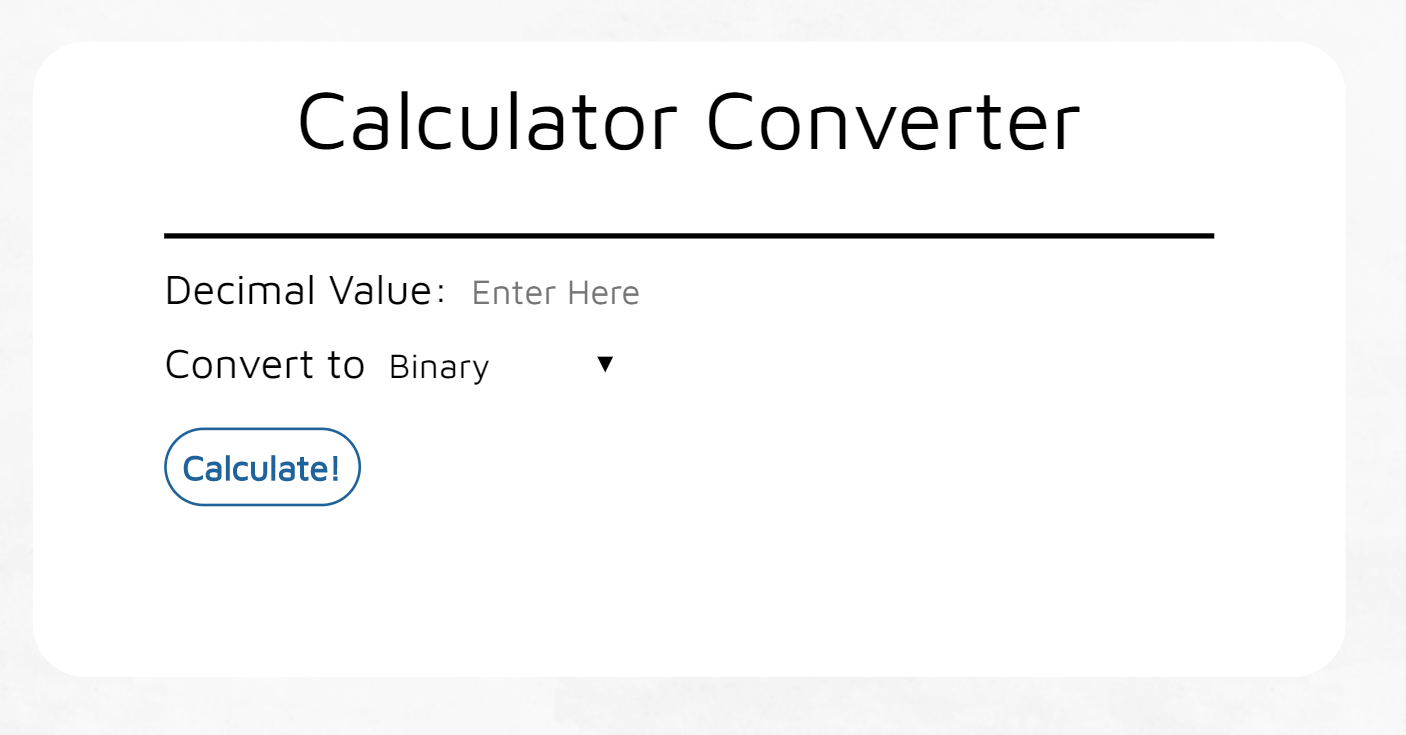
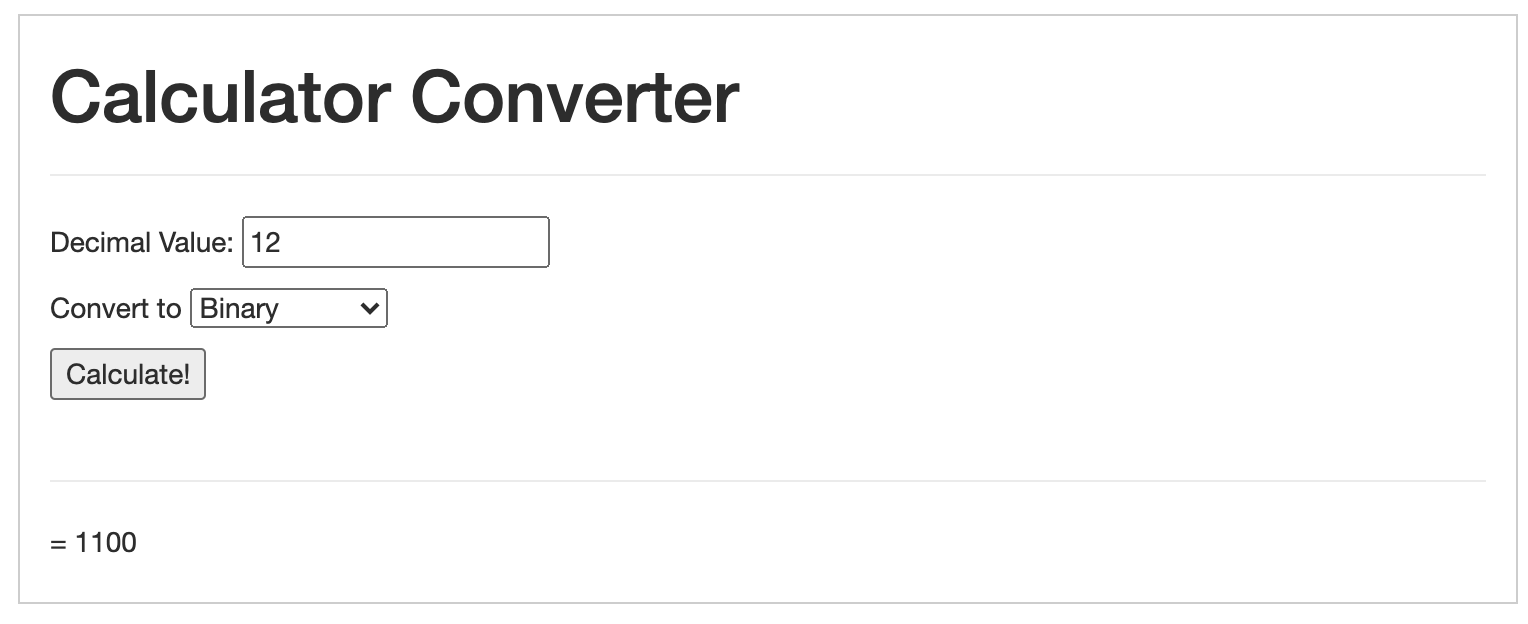
added projects

diff --git a/tip.html b/tip.html
@@ -1,84 +1,99 @@
+
+
 <!DOCTYPE html>
-<html lang="en" dir="ltr">
-
+<html lang="en">
 <head>
-    <meta charset="utf-8">
-    <meta name="viewport" content="width=device-width, initial-scale=1">
-
-    <title> Thuy-Vy Nguyen</title>
-    <link rel="stylesheet" href="style.css">
+  <title> Thuy-Vy Nguyen</title>
+  <meta charset="utf-8">
+  <meta name="viewport" content="width=device-width, initial-scale=1">
+  <link rel="stylesheet" href="https://maxcdn.bootstrapcdn.com/bootstrap/3.4.1/css/bootstrap.min.css">
+  <script src="https://ajax.googleapis.com/ajax/libs/jquery/3.5.1/jquery.min.js"></script>
+  <script src="https://maxcdn.bootstrapcdn.com/bootstrap/3.4.1/js/bootstrap.min.js"></script>
+  <link rel="stylesheet" href="style.css">
 </head>
-
 <body>
 
-    <div class="navbar">
-        <a href="index.html"> &nbsp; &nbsp;T H U Y - V Y &nbsp; &nbsp; N G U Y E N</a>
+ <!-- NAVIGATION BAR -->
+  <nav id="transparent" class="navbar navbar-default navbar-fixed-top">
+    <div class="container">
+    <div class="container-fluid">
+      <div class="navbar-header">
+        <button type="button" class="navbar-toggle" data-toggle="collapse" data-target="#myNavbar">
+          <span class="icon-bar"></span>
+          <span class="icon-bar"></span>
+          <span class="icon-bar"></span>                        
+        </button>
+        <a class="navbar-brand" href="index.html"> THUY-VY</a>
+      </div>
+      <div class="collapse navbar-collapse" id="myNavbar">
+        <ul class="nav navbar-nav navbar-right">
+          <li><a href="index.html">Home</a></li>
+          <li><a href="index.html#profile">Profile</a></li>
+          <li><a href="index.html#resume">Resume</a></li>
+          <li><a href="index.html#projects">Projects</a></li>
+          <li><a href="index.html#connect">Connect</a></li>
 
-        <div class="nav_links">
-            <a href="index.html"> home</a>
-            <a href="resume_thuyvynguyen.pdf"> experience</a>
-            <a href="projects.html"> projects </a>
-        </div>
+        </ul>
+      </div>
     </div>
+    </div>
+  </nav>
 
+  <br> <br><br>
+   <!-- HERE IS WHERE THE TIP STUFF STARTS -->
+   <div class="calc container">
+    <h1>Tip Calculator</h1>
+    <hr>
+    <div class="calculator">
 
-    <!-- HERE IS WHERE THE TIP STUFF STARTS -->
-    <div class="contentcalc">
-        <h1>Tip Calculator</h1>
+        <form>
+            <p>How much was your bill? </p>
+            
+                $ <input type="text" placeholder="Bill Amount" id="billamt" >
+            <p>How was your service? </p>
+                    <select id="serviceQual">
+                        <option disabled selected value="0"> Service Quality</option>
+                        <option value="0.3">30&#37; &#45; Outstanding</option>
+                        <option value="0.2">20&#37; &#45; Good</option>
+                        <option value="0.15">15&#37; &#45; Mediocre </option>
+                        <option value="0.1">10&#37; &#45; Bad</option>
+                        <option value="0.05">5&#37; &#45; Terrible</option>
+                    </select>
+        </form>
+        <p>How many people are sharing the bill?</p>
+        <input type="text" placeholder="Number of People" id="peopleamt">
+
+        <button type="button" id="calculate">Calculate!</button>
+        <br>
+        <br>
+    </div>
+    
+    
+    <!--calculator end-->
+    <div id="totalTip">
         <hr>
-        <div class="calculator">
-    
-            <form>
-                <p>How much was your bill? </p>
-                
-                    $ <input type="text" placeholder="Bill Amount" id="billamt" >
-                <p>How was your service? </p>
-                        <select id="serviceQual">
-                            <option disabled selected value="0"> Service Quality</option>
-                            <option value="0.3">30&#37; &#45; Outstanding</option>
-                            <option value="0.2">20&#37; &#45; Good</option>
-                            <option value="0.15">15&#37; &#45; Mediocre </option>
-                            <option value="0.1">10&#37; &#45; Bad</option>
-                            <option value="0.05">5&#37; &#45; Terrible</option>
-                        </select>
-            </form>
-            <p>How many people are sharing the bill?</p>
-            <input type="text" placeholder="Number of People" id="peopleamt">
+        <br>
+        <p> Tip Total: 
+        $<span id="tiptotal">0.00</span> </p>
 
-            <button type="button" id="calculate">Calculate!</button>
-    
-        </div>
-        
-        
-        <!--calculator end-->
-        <div id="totalTip">
-            <hr>
-            <br>
-            <p> Tip Total: </p>
-            $<span id="tiptotal">0.00</span>
+        <p> Per person: 
+        $<span id="tip">0.00</span> </p>
 
-            <p> Per person: </p>
-            $<span id="tip">0.00</span>
+        <p> Bill Total w/ Tip: 
+        $<span id="btotal">0.00</span> </p>
 
-            <p> Bill Total w/ Tip: </p>
-            $<span id="btotal">0.00</span>
-
-            <p> Per Person: </p>
-            $<span id="ptotal">0.00</span>
+        <p> Per Person: 
+        $<span id="ptotal">0.00</span> </p>
 
 
-            <small id="each"></small>
-        </div>
-        <!--totalTip end-->
-    
+        <small id="each"></small>
+
+        <br>
     </div>
-    <script type="text/javascript" src="tipcalculator.js"></script>
-    
+    <!--totalTip end-->
 
-
-    
-
-
+</div>
+<script type="text/javascript" src="tipcalculator.js"></script>
 </body>
-
 </html>
+

diff --git a/convert.html b/convert.html
@@ -1,27 +1,49 @@
+
+
 <!DOCTYPE html>
-<html lang="en" dir="ltr">
-
-
+<html lang="en">
 <head>
-    <meta charset="utf-8">
-    <meta name="viewport" content="width=device-width, initial-scale=1">
-    <title> Thuy-Vy Nguyen</title>
-    <link rel="stylesheet" href="style.css">
+  <title> Thuy-Vy Nguyen</title>
+  <meta charset="utf-8">
+  <meta name="viewport" content="width=device-width, initial-scale=1">
+  <link rel="stylesheet" href="https://maxcdn.bootstrapcdn.com/bootstrap/3.4.1/css/bootstrap.min.css">
+  <script src="https://ajax.googleapis.com/ajax/libs/jquery/3.5.1/jquery.min.js"></script>
+  <script src="https://maxcdn.bootstrapcdn.com/bootstrap/3.4.1/js/bootstrap.min.js"></script>
+  <link rel="stylesheet" href="style.css">
 </head>
-
 <body>
 
-    <div class="navbar">
-        <a href="index.html"> &nbsp; &nbsp;T H U Y - V Y &nbsp; &nbsp; N G U Y E N</a>
+ <!-- NAVIGATION BAR -->
+  <nav id="transparent" class="navbar navbar-default navbar-fixed-top">
+    <div class="container">
+    <div class="container-fluid">
+      <div class="navbar-header">
+        <button type="button" class="navbar-toggle" data-toggle="collapse" data-target="#myNavbar">
+          <span class="icon-bar"></span>
+          <span class="icon-bar"></span>
+          <span class="icon-bar"></span>                        
+        </button>
+        <a class="navbar-brand" href="index.html"> THUY-VY</a>
+      </div>
+      <div class="collapse navbar-collapse" id="myNavbar">
+        <ul class="nav navbar-nav navbar-right">
+          <li><a href="index.html">Home</a></li>
+          <li><a href="index.html#profile">Profile</a></li>
+          <li><a href="index.html#resume">Resume</a></li>
+          <li><a href="index.html#projects">Projects</a></li>
+          <li><a href="index.html#connect">Connect</a></li>
 
-        <div class="nav_links">
-            <a href="index.html"> home</a>
-            <a href="resume_thuyvynguyen.pdf"> experience</a>
-            <a href="projects.html"> projects </a>
-        </div>
+        </ul>
+      </div>
     </div>
+    </div>
+  </nav>
 
-    <div class="contentcalc">
+  <!-- CALC -->
+  <br> <br><br>
+
+  <div class = "container calc">
+    
     <h1> Calculator Converter</h1>
     <hr>
     <div class="calculator">
@@ -36,25 +58,18 @@
             </p>
         </form>
         <button type="button" id="calculate">Calculate!</button>
+        <br><br>
 
     </div>
         <div id="result">
             <hr>
-            <br>
-            
             <span id="tiptotal"> 0 </span>
+            <br>
             
 
         </div>
-
     </div>
     <script type="text/javascript" src="convertcalculator.js"></script>
-
-
-
-
-
-
 </body>
-
 </html>
+

diff --git a/old.html b/old.html
@@ -1,0 +1,84 @@
+<!DOCTYPE html>
+<html lang="en" dir="ltr">
+
+<head>
+    <meta charset="utf-8">
+    <meta name="viewport" content="width=device-width, initial-scale=1">
+
+    <title> Thuy-Vy Nguyen</title>
+    <link rel="stylesheet" href="style.css">
+</head>
+
+<body>
+
+    <div class="navbar">
+        <a href="index.html"> &nbsp; &nbsp;T H U Y - V Y &nbsp; &nbsp; N G U Y E N</a>
+
+        <div class="nav_links">
+            <a href="index.html"> home</a>
+            <a href="resume_thuyvynguyen.pdf"> experience</a>
+            <a href="projects.html"> projects </a>
+        </div>
+    </div>
+
+
+    <!-- HERE IS WHERE THE TIP STUFF STARTS -->
+    <div class="contentcalc">
+        <h1>Tip Calculator</h1>
+        <hr>
+        <div class="calculator">
+    
+            <form>
+                <p>How much was your bill? </p>
+                
+                    $ <input type="text" placeholder="Bill Amount" id="billamt" >
+                <p>How was your service? </p>
+                        <select id="serviceQual">
+                            <option disabled selected value="0"> Service Quality</option>
+                            <option value="0.3">30&#37; &#45; Outstanding</option>
+                            <option value="0.2">20&#37; &#45; Good</option>
+                            <option value="0.15">15&#37; &#45; Mediocre </option>
+                            <option value="0.1">10&#37; &#45; Bad</option>
+                            <option value="0.05">5&#37; &#45; Terrible</option>
+                        </select>
+            </form>
+            <p>How many people are sharing the bill?</p>
+            <input type="text" placeholder="Number of People" id="peopleamt">
+
+            <button type="button" id="calculate">Calculate!</button>
+    
+        </div>
+        
+        
+        <!--calculator end-->
+        <div id="totalTip">
+            <hr>
+            <br>
+            <p> Tip Total: </p>
+            $<span id="tiptotal">0.00</span>
+
+            <p> Per person: </p>
+            $<span id="tip">0.00</span>
+
+            <p> Bill Total w/ Tip: </p>
+            $<span id="btotal">0.00</span>
+
+            <p> Per Person: </p>
+            $<span id="ptotal">0.00</span>
+
+
+            <small id="each"></small>
+        </div>
+        <!--totalTip end-->
+    
+    </div>
+    <script type="text/javascript" src="tipcalculator.js"></script>
+    
+
+
+    
+
+
+</body>
+
+</html>

diff --git a/index.html b/index.html
@@ -28,6 +28,7 @@
           <li><a href="#">Home</a></li>
           <li><a href="#profile">Profile</a></li>
           <li><a href="#resume">Resume</a></li>
+          <li><a href="#projects"> Projects</a></li>
           <li><a href="#connect">Connect</a></li>
 
         </ul>
@@ -158,6 +159,27 @@
     <br>
 
   </div>
+  <a name="projects"></a>
+
+    <div class="row">
+      <div class="col-sm-12">
+        <h3> Projects</h3>
+      </div>
+    </div>
+    <div class = "row text-center">
+      <div class="col-sm-4">
+        <a href ="convert.html"> <img src="convert.png" width="100%"/> </a>
+      </div>
+      <div class="col-sm-4">
+        <a href ="tip.html"> <img src="tip.png" width="100%"/> </a>
+      </div>
+      <div class="col-sm-4">
+        <a href="poster.jpg"> <img src="poster.jpg" width="100%"/> </a>
+      </div>
+    </div>
+
+  <br>  <br>
+
 
   <a name="connect"></a>
   <div class="jumbotron">

diff --git a/style.css b/style.css
@@ -44,3 +44,7 @@ h4 {
 a{
     font-weight: bolder;
 }
+
+.calc{
+    border: 1px solid lightgray;
+}
